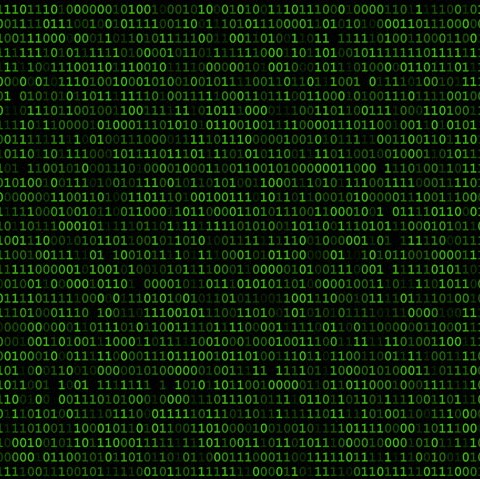
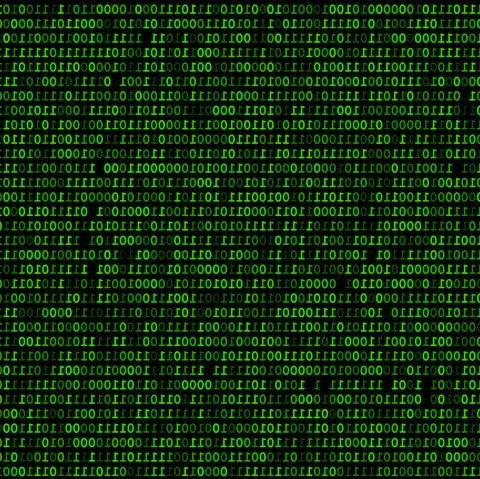
texture matrix

diff --git a/Basic2D/Model.cpp b/Basic2D/Model.cpp
@@ -123,7 +123,12 @@ bool MyModel::LoadGLTextures(void)
 	//muro matrix
 	if (!this->Load_a_texture("../Data/matrix5_1.jpg", 11)) return false;
 	//matrix textures
-	if (!this->Load_a_texture("../Data/matrix5_1.jpg", 1)) return false;
+	if (!this->Load_a_texture("../Data/matrix1_1.jpg", 27)) return false;
+	if (!this->Load_a_texture("../Data/matrix2_1.jpg", 28)) return false;
+	if (!this->Load_a_texture("../Data/matrix3_1.jpg", 29)) return false;
+	if (!this->Load_a_texture("../Data/matrix4_1.jpg", 30)) return false;
+
+
 
 	//indovinello
 	if (!this->Load_a_texture("../Data/question.jpg", 9)) return false;
@@ -572,11 +577,11 @@ bool MyModel::verifica_risposta(char* answer) {
 			this->matrix_vinto = true;
 			this->cancello_vinto = true;
 			for (int i = 0; i < this->Maze->L.size(); i++) {
-				this->Maze->L[i].WallsTexture[0] = 11;
-				this->Maze->L[i].WallsTexture[1] = 11;
-				this->Maze->L[i].WallsTexture[2] = 11;
-				this->Maze->L[i].WallsTexture[3] = 11;
-				this->Maze->L[i].floorTexture = 11;
+				this->Maze->L[i].WallsTexture[0] = 27;
+				this->Maze->L[i].WallsTexture[1] = 28;
+				this->Maze->L[i].WallsTexture[2] = 29;
+				this->Maze->L[i].WallsTexture[3] = 30;
+				this->Maze->L[i].floorTexture = 27;
 				this->Maze->L[i].ceilTexture = 11;
 			}
 			this->Maze->mettiMuri();
